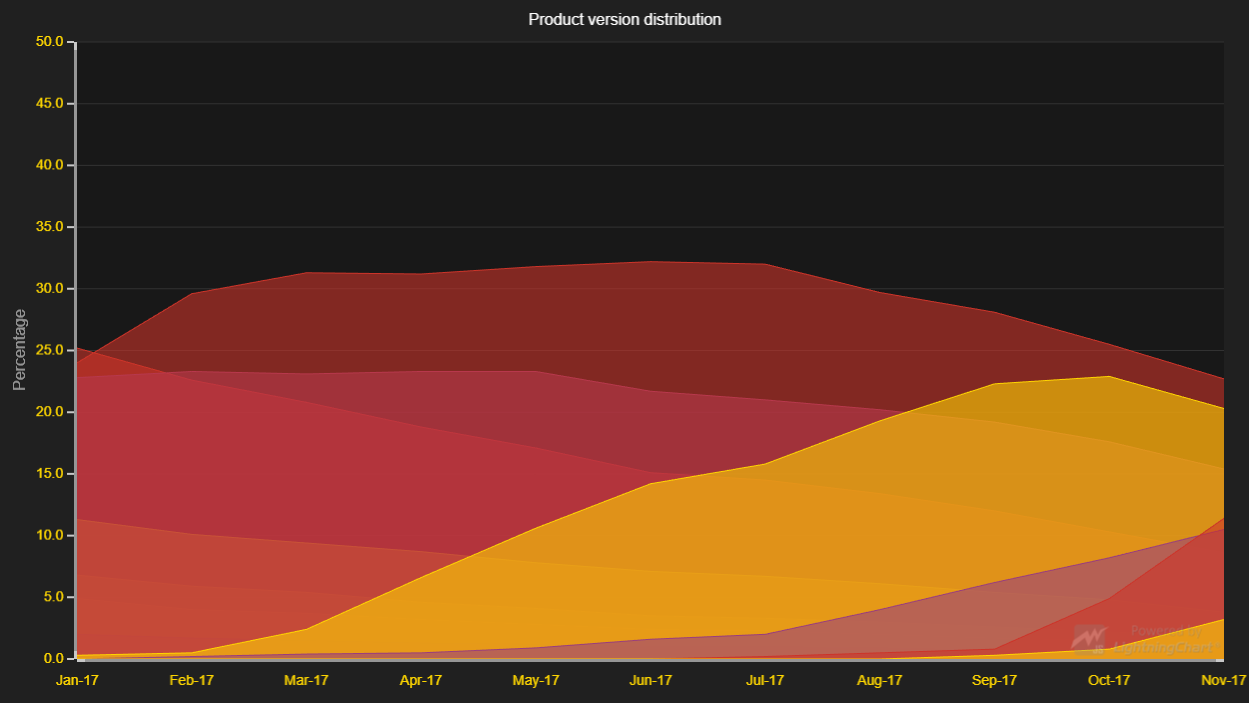
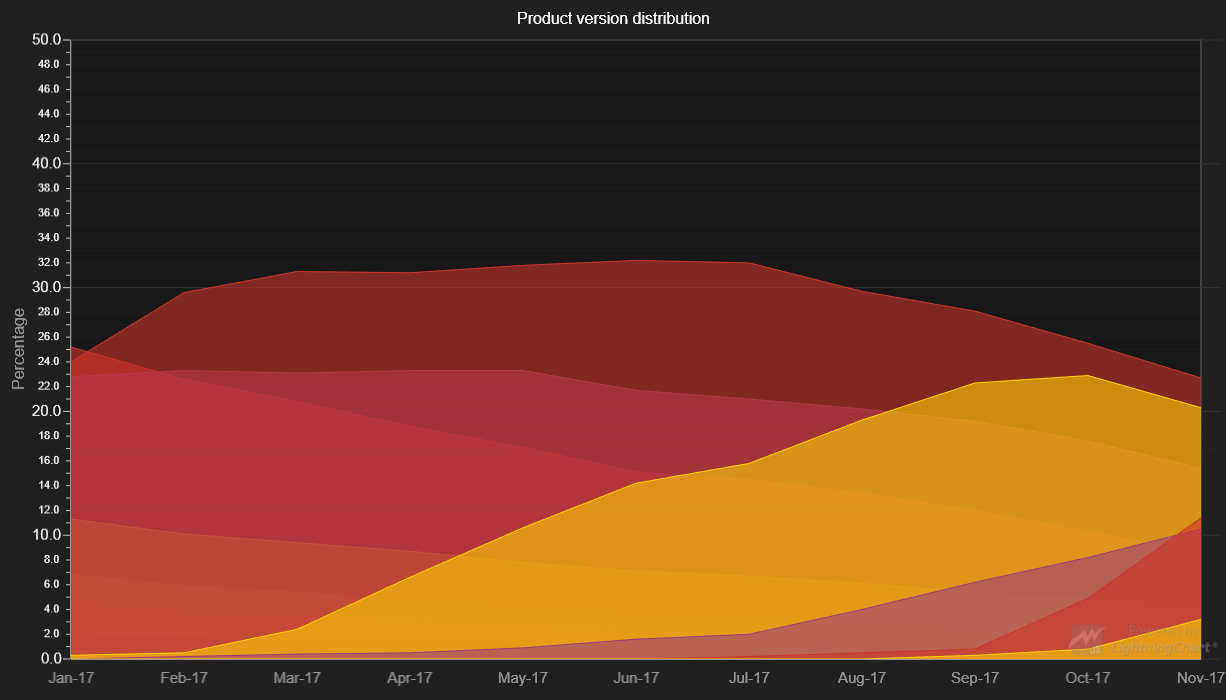
LCJS 2.0.0

diff --git a/src/index.js b/src/index.js
@@ -10,7 +10,10 @@ const {
     ColorPalettes,
     SolidFill,
     emptyLine,
-    emptyTick
+    emptyFill,
+    AxisTickStrategies,
+    ColorRGBA,
+    Themes
 } = lcjs
 
 // ----- Cache styles -----
@@ -19,7 +22,9 @@ const solidFills = [2, 1, 0].map(palette).map((color) => new SolidFill({ color }
 const opaqueFills = solidFills.map(fill => fill.setA(150))
 
 // Create a XY Chart.
-const xyChart = lightningChart().ChartXY()
+const xyChart = lightningChart().ChartXY({
+    // theme: Themes.dark 
+})
     .setTitle('Product version distribution')
     .setMouseInteractions(true)
     .setPadding({ right: 25 })
@@ -373,7 +378,7 @@ const axisX = xyChart.getDefaultAxisX()
     .setMouseInteractions(false)
     .setScrollStrategy(undefined)
     // Disable default ticks.
-    .setTickStyle(emptyTick)
+    .setTickStrategy(AxisTickStrategies.Empty)
 
 // Create Custom Axis
 const margin = 2;
@@ -386,22 +391,27 @@ let customAxisX = (data, index) => {
             .setPadding(margin)
             .setBackground((background) => background
                 .setStrokeStyle(emptyLine)
+                .setFillStyle(emptyFill)
             )
+            .setTextFillStyle(new SolidFill({ color: ColorRGBA(150, 150, 150) }))
         )
+
 }
 
 // Generate Chart
-const generateChart = (data, area) => {
-
-    data.map((p, index) => ({ x: index, y: p.y }))
+const generateChart = (data, area, createTicks) => {
+    data
+        .map((p, index) => ({ x: index, y: p.y }))
         .forEach((point, index) => {
             area.add(point)
-            customAxisX(data, index)
+            if(createTicks){
+                customAxisX(data, index)
+            }
         })
 }
 
 // generating different layered for charts
-generateChart(version1, V1Area)
+generateChart(version1, V1Area, true)
 generateChart(version2, V2Area)
 generateChart(version3, V3Area)
 generateChart(version4, V4Area)

diff --git a/README.md b/README.md
@@ -28,8 +28,8 @@ In this example, layered area chart is basically multiple areas layered by eithe
 
 ## API Links
 
-* XY cartesian chart: [ChartXY]
-* Area series: [AreaSeries]
+* [XY cartesian chart]
+* [Area series]
 
 
 ## Support
@@ -53,6 +53,6 @@ Direct developer email support can be purchased through a [Support Plan][4] or b
 © Arction Ltd 2009-2020. All rights reserved.
 
 
-[ChartXY]: https://www.arction.com/lightningchart-js-api-documentation/v1.3.0/classes/chartxy.html
-[AreaSeries]: https://www.arction.com/lightningchart-js-api-documentation/v1.3.0/classes/chartxy.html#addareaseries
+[XY cartesian chart]: https://www.arction.com/lightningchart-js-api-documentation/v2.0.0/classes/chartxy.html
+[Area series]: https://www.arction.com/lightningchart-js-api-documentation/v2.0.0/classes/chartxy.html#addareaseries
 
